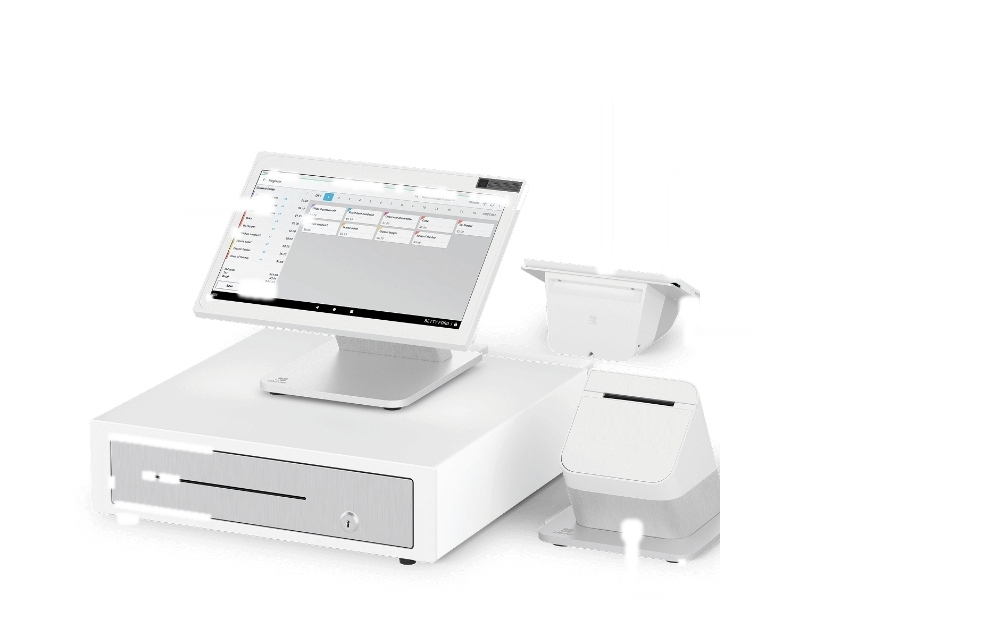
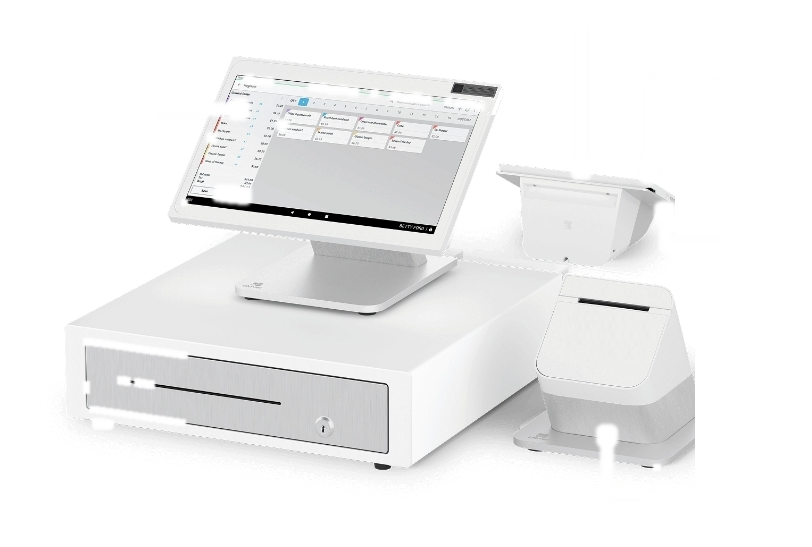
Fix Full POS mobile hero sizing, spacing, and card grid
Tighten the product canvas, cap mobile product width, keep the Merchant
Services heading above the compact hero image, drop empty vertical space,
and force a single-column benefit grid at <=768px. Callouts remain the
approved four labels only (no 8" Touchscreen).

diff --git a/src/app/services/merchant-services/full-pos-system/page.tsx b/src/app/services/merchant-services/full-pos-system/page.tsx
@@ -153,8 +153,8 @@ export default function FullPosSystemPage() {
   const dashboard = FULL_POS_IMAGES.dashboard;
 
   return (
-    <div className="overflow-x-hidden bg-white text-[#1a1a40]">
-      {/* 1–2. Hero — Full POS System */}
+    <div className="full-pos-page overflow-x-hidden bg-white text-[#1a1a40]">
+      {/* 1–2. Hero — Full POS System (mobile: text first, compact product second) */}
       <section className="relative overflow-visible">
         <div
           className="pointer-events-none absolute inset-0"
@@ -164,26 +164,26 @@ export default function FullPosSystemPage() {
           }}
           aria-hidden="true"
         />
-        <div className="relative mx-auto grid max-w-7xl items-center gap-8 px-4 py-10 sm:px-6 sm:py-12 lg:grid-cols-[minmax(0,0.42fr)_minmax(0,0.58fr)] lg:gap-8 lg:px-8 lg:py-14">
-          <div className="animate-fade-up max-w-xl min-w-0">
+        <div className="relative mx-auto grid max-w-7xl items-center gap-5 px-4 py-7 max-[480px]:px-3 sm:gap-6 sm:px-6 sm:py-10 lg:grid-cols-[minmax(0,0.42fr)_minmax(0,0.58fr)] lg:gap-8 lg:px-8 lg:py-14">
+          <div className="animate-fade-up relative z-[1] max-w-xl min-w-0">
             <Pill>Merchant Services</Pill>
-            <h1 className="mt-4 font-heading text-[2.15rem] font-extrabold leading-[1.12] tracking-tight text-[#1a1a40] sm:text-5xl lg:text-[3.15rem]">
+            <h1 className="mt-3 font-heading text-[2rem] font-extrabold leading-[1.12] tracking-tight text-[#1a1a40] sm:mt-4 sm:text-5xl lg:text-[3.15rem]">
               Full POS
               <br />
               System
             </h1>
-            <p className="mt-4 text-[15px] leading-relaxed text-[#4b5568] sm:text-base">
+            <p className="mt-3 text-[15px] leading-relaxed text-[#4b5568] sm:mt-4 sm:text-base">
               A complete solution to help your business run{" "}
               <span className="font-semibold text-[#1a1a40]">faster, easier,</span>{" "}
               and{" "}
               <span className="font-semibold text-[#1a1a40]">more efficiently.</span>
             </p>
-            <p className="mt-3 text-sm leading-relaxed text-[#6b7280] sm:text-[15px]">
+            <p className="mt-2.5 text-sm leading-relaxed text-[#6b7280] sm:mt-3 sm:text-[15px]">
               Everything you need in one system — register, cash drawer, receipt
               printer, customer display and powerful built-in payment options.
             </p>
-            <div className="mt-7">
-              <QuoteCtaLink />
+            <div className="mt-5 sm:mt-7">
+              <QuoteCtaLink className="w-full max-w-full sm:w-auto" />
             </div>
           </div>
 
@@ -193,14 +193,14 @@ export default function FullPosSystemPage() {
         </div>
       </section>
 
-      {/* 3. Six-benefit feature grid */}
-      <section className="bg-[#f3f8ff] py-12 sm:py-14">
-        <div className="mx-auto max-w-7xl px-4 sm:px-6 lg:px-8">
-          <div className="grid gap-4 sm:grid-cols-2 lg:grid-cols-3 lg:gap-5">
+      {/* 3. Six-benefit feature grid — 1 col below md (768px), 2 col tablet, 3 col desktop */}
+      <section className="bg-[#f3f8ff] py-8 sm:py-12 lg:py-14">
+        <div className="mx-auto max-w-7xl px-4 max-[480px]:px-3 sm:px-6 lg:px-8">
+          <div className="grid grid-cols-1 gap-4 min-[769px]:grid-cols-2 lg:grid-cols-3 lg:gap-5">
             {FEATURES.map((feature) => (
               <article
                 key={feature.title}
-                className="rounded-2xl border border-[#e4ecf7] bg-white p-5 shadow-[0_10px_28px_-22px_rgba(15,23,42,0.35)] sm:p-6"
+                className="w-full max-w-full rounded-2xl border border-[#e4ecf7] bg-white p-5 shadow-[0_10px_28px_-22px_rgba(15,23,42,0.35)] sm:p-6"
               >
                 <div className="flex items-start justify-between gap-3">
                   <GreenCheckBadge />

diff --git a/src/components/merchant/full-pos/FullPosHero.tsx b/src/components/merchant/full-pos/FullPosHero.tsx
@@ -13,37 +13,38 @@ type Callout = {
 };
 
 /**
- * Approved hero callouts (4) — no separate black 8" screen, no 8" Touchscreen label.
- * Hardware: white primary monitor + cash drawer, contactless/card reader, receipt printer.
+ * Approved hero callouts ONLY (4).
+ * Explicitly excluded: "8\" Touchscreen" callout, connector, marker, and any
+ * separate black 8" customer-display asset.
  */
 const CALLOUTS: Callout[] = [
   {
     id: "monitor",
     label: '14" Monitor',
-    pill: { left: "2%", top: "12%" },
-    anchor: { left: "30%", top: "30%" },
+    pill: { left: "1%", top: "10%" },
+    anchor: { left: "32%", top: "28%" },
     align: "left",
   },
   {
     id: "contactless",
     label: "Contactless Reader",
-    pill: { left: "86%", top: "8%" },
-    anchor: { left: "60%", top: "30%" },
+    pill: { left: "92%", top: "6%" },
+    anchor: { left: "68%", top: "28%" },
     align: "right",
   },
   {
     id: "card-reader",
     label: "Credit Card Reader\nfor Dip & Swipe",
-    pill: { left: "86%", top: "38%" },
-    anchor: { left: "67%", top: "46%" },
+    pill: { left: "92%", top: "40%" },
+    anchor: { left: "78%", top: "50%" },
     maxWidth: "10rem",
     align: "right",
   },
   {
     id: "printer",
     label: "Receipt Printer",
-    pill: { left: "86%", top: "74%" },
-    anchor: { left: "67%", top: "72%" },
+    pill: { left: "92%", top: "78%" },
+    anchor: { left: "78%", top: "78%" },
     align: "right",
   },
 ];
@@ -107,17 +108,17 @@ function CalloutConnectors() {
   );
 }
 
-/** On small screens, keep full hardware visible and list labels as chips. */
+/** Mobile: compact chips under a scaled-down product (no absolute desktop callouts). */
 function MobileCalloutList() {
   return (
     <ul
-      className="mt-3 flex flex-wrap justify-center gap-2 md:hidden"
+      className="mt-2 flex flex-wrap justify-center gap-1.5 px-1 md:hidden"
       aria-label="System components"
     >
       {CALLOUTS.map((c) => (
         <li
           key={c.id}
-          className="rounded-full border border-[#c7dbff] bg-white px-3 py-1.5 font-heading text-[11px] font-bold leading-snug text-[#1e3a8a] shadow-[0_4px_12px_-8px_rgba(37,99,235,0.4)]"
+          className="rounded-full border border-[#c7dbff] bg-white px-2.5 py-1 font-heading text-[10px] font-bold leading-snug text-[#1e3a8a] shadow-[0_4px_12px_-8px_rgba(37,99,235,0.4)] sm:px-3 sm:text-[11px]"
         >
           {c.label.replace("\n", " ")}
         </li>
@@ -128,15 +129,15 @@ function MobileCalloutList() {
 
 /**
  * Full POS hero product visual — approved white POS hardware.
- * Entire system shown with object-fit: contain (never cover / never cropped).
- * No separate black 8" customer display.
+ * Mobile: constrained width so the product is part of the hero, not a full-screen image.
+ * Desktop: full column width with HTML callouts. object-fit: contain always.
  */
 export function FullPosHero() {
   const hero = FULL_POS_IMAGES.hero;
 
   return (
-    <div className="relative w-full min-w-0">
-      <div className="product-visual relative z-[1] mx-auto w-full max-w-full overflow-visible">
+    <div className="full-pos-hero-visual relative mx-auto w-full min-w-0 max-w-[300px] sm:max-w-[380px] md:max-w-full lg:max-w-none">
+      <div className="product-visual relative z-[1] mx-auto w-full overflow-visible">
         <Image
           src={hero.src}
           alt={hero.alt}
@@ -144,7 +145,7 @@ export function FullPosHero() {
           height={hero.height}
           priority
           quality={92}
-          sizes="(max-width: 768px) 100vw, (max-width: 1024px) 90vw, 58vw"
+          sizes="(max-width: 480px) 300px, (max-width: 768px) 380px, (max-width: 1024px) 90vw, 58vw"
           className="relative mx-auto block h-auto w-full max-w-full object-contain object-center"
         />
         <CalloutConnectors />

diff --git a/src/lib/full-pos-images.ts b/src/lib/full-pos-images.ts
@@ -1,16 +1,17 @@
 /**
  * Full POS System product page assets.
  * Hero: approved white POS hardware (primary monitor, cash drawer, contactless/card
- * reader, receipt printer). Never include a separate black 8" customer display.
+ * reader, receipt printer). Never include a separate black 8" customer display
+ * or an "8\" Touchscreen" callout.
  * Render with object-fit: contain (never cover). Labels are live HTML (FullPosHero).
  */
 export const FULL_POS_IMAGES = {
   hero: {
-    /** Approved white Full POS product photo — hardware uncropped; HTML callouts overlay. */
+    /** Approved white Full POS product photo — empty canvas trimmed; HTML callouts overlay. */
     src: "/images/merchant/full-pos/full-pos-product.png",
     alt: "Full POS System with 14 inch merchant monitor, cash drawer, contactless reader, credit card reader, and receipt printer",
-    width: 1004,
-    height: 627,
+    width: 812,
+    height: 547,
   },
   dashboard: {
     src: "/images/merchant/full-pos/dashboard-devices.png",
